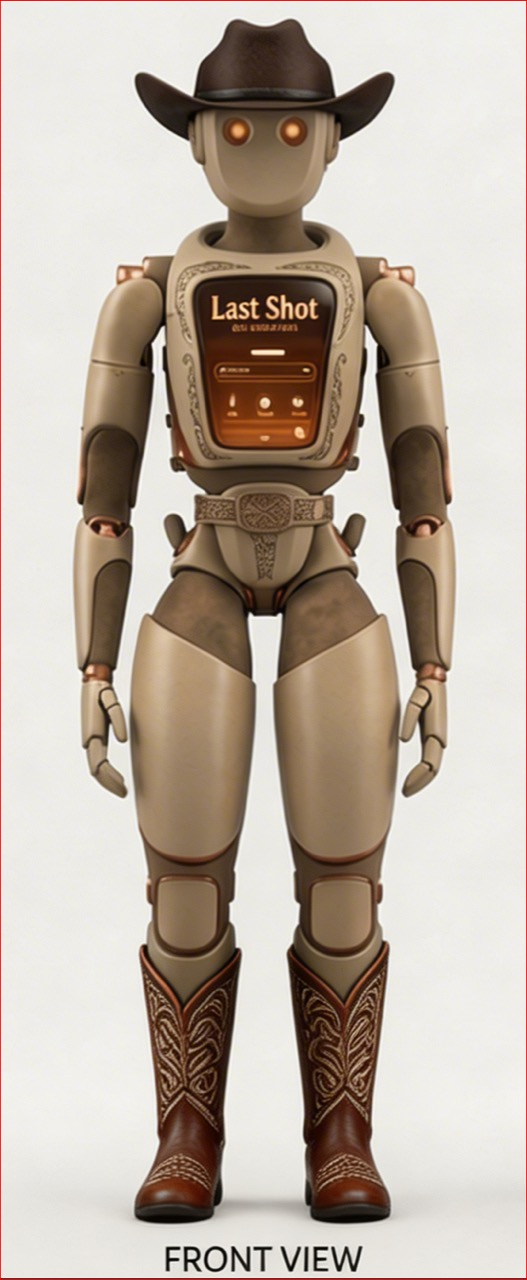
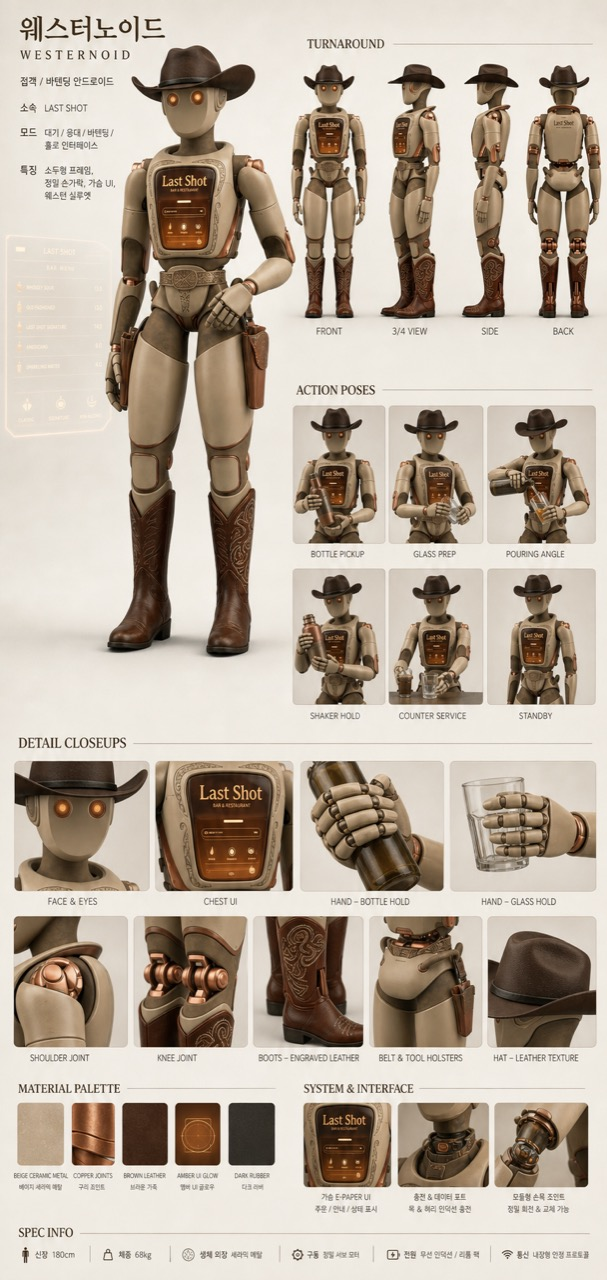
ncity: 웨스터노이드 시트 적용 + 무기·빌런 환도·외골격 제외
- 웨스터노이드 → 바텐딩 캐릭터시트(턴어라운드)로 교체 (사진→시트)
- obj-hwando·obj-exo-suit objectAssets/defaultObjRefs 제거(레퍼 부적합), objectAssets 18

diff --git a/index.html b/index.html
@@ -3257,7 +3257,6 @@ const PROJECTS = {
     defaultObjRefs: {
       "obj-justice6": "assets/ncity/obj/obj-justice6.jpg",
       "obj-stun-whip": "assets/ncity/obj/obj-stun-whip.jpg",
-      "obj-hwando": "assets/ncity/obj/obj-hwando.jpg",
       "obj-marshal": "assets/ncity/obj/obj-marshal.jpg",
       "obj-red-challenger": "assets/ncity/obj/obj-red-challenger.jpg",
       "obj-western-chopper": "assets/ncity/obj/obj-western-chopper.jpg",
@@ -3266,7 +3265,6 @@ const PROJECTS = {
       "obj-luxury-heli": "assets/ncity/obj/obj-luxury-heli.jpg",
       "obj-maglev": "assets/ncity/obj/obj-maglev.jpg",
       "obj-brain-rig": "assets/ncity/obj/obj-brain-rig.jpg",
-      "obj-exo-suit": "assets/ncity/obj/obj-exo-suit.jpg",
       "obj-arche": "assets/ncity/obj/obj-arche.jpg",
       "obj-mapae": "assets/ncity/obj/obj-mapae.jpg",
       "obj-shotgun": "assets/ncity/obj/obj-shotgun.jpg",
@@ -3300,7 +3298,7 @@ const PROJECTS = {
       "[SP-OT] 우유공장 잔업 카운터": "assets/ncity/space/SP-OT_우유공장_잔업_카운터.jpg",
       "[SP-VR-CORE] 9층 코드 방화벽": "assets/ncity/space/SP-VR-CORE_9층_코드_방화벽.jpg"
     },
-    objectAssets: [{"key": "obj-justice6", "name": "[무기·주연] 저스티스-6 리볼버", "desc": "독고탄 주무기. 단청 음각 비살상 전자기 리볼버. 손잡이에 오얏꽃 문장 음각. 청록 코일 발광. 테이저탄/레이저탄/음파탄 3종 — 화약도 연기도 없음"}, {"key": "obj-stun-whip", "name": "[무기·주연] 전기 채찍", "desc": "독고탄의 비살상 보조무기. 청록 발광 세그먼트 스턴 채찍 — 참교육 집행 도구"}, {"key": "obj-shotgun", "name": "[무기·주연] 커스텀 샷건", "desc": "독고탄 비살상 커스텀 샷건. 시안 코어·단청 각인·레드도트, EM 산탄"}, {"key": "obj-dagger", "name": "[무기·주연] 단검 2종", "desc": "독고탄 청색 발광날 단검 2종, 단청 가죽 시스 세트"}, {"key": "obj-taser-baton", "name": "[무기·주연] 테이저봉", "desc": "독고탄 청록 방전 코일 테이저봉, 단청 각인 — 근접 제압"}, {"key": "obj-dokgo-drone", "name": "[무기·주연] 정찰 드론 3기", "desc": "독고탄의 시안 호버 정찰·지원 드론 3기. 촬영·표적 마킹·엄호"}, {"key": "obj-yujin-weapon", "name": "[무기·주연] 서유진 무기 세트", "desc": "The Oracle 무기 세트 — 백금·로즈골드 단청 음각 리볼버·권총·커스텀 샷건, 마젠타 EM 발광. 서유진 전술모드 기동"}, {"key": "obj-hanmin-weapon", "name": "[무기·주연] 한민재 무기 세트", "desc": "금·흑 단청 음각 리볼버·권총·샷건 세트, 옐로우골드 EM 발광. 한민재 각성 디렉터 사이드암"}, {"key": "obj-hwando", "name": "[무기·빌런] 환도", "desc": "진홍(쿠레나이)의 한국식 검. 독고탄 음파탄을 받아치는 근접 자객 무기"}, {"key": "obj-exo-suit", "name": "[무기·빌런] 강화 외골격", "desc": "구태원이 노인의 몸 아래 숨긴 신이 되기 위한 개조 외골격. 음파탄을 흡수"}, {"key": "obj-marshal", "name": "[비히클·독고탄] 마샬", "desc": "변신하는 기계 말. 지상=말발굽 배기음 4족 주행 / 위기·탈출=바이크 변신"}, {"key": "obj-red-challenger", "name": "[비히클·서유진] 레드챌린저", "desc": "서유진의 메인 차량. 적동색 닷지 챌린저형 오픈탑 컨버터블, 단청·용 후드 각인, 접히는 호버 서스펜션 휠. 라스트샷 마담의 The Oracle 기동"}, {"key": "obj-western-chopper", "name": "[비히클·서유진] 웨스턴 초퍼", "desc": "서유진의 결전용 웨스턴 스타일 초퍼 바이크"}, {"key": "obj-mech-bison", "name": "[비히클·한민재] 들소카(기계 들소)", "desc": "한민재의 탈것. 매트블랙 중장갑 SUV/트럭(허머형)에 금장 그릴 들소 엠블럼·루프 라이트바·대형 오프로드 타이어. 강림 시퀀스 지상 화력 (4족 로봇 아님)"}, {"key": "obj-gold-drone", "name": "[비히클·한민재] 황금 촬영 드론", "desc": "한민재의 금색 드론. 평소 4K 촬영용, EP12에서 23기 편대 무장 전투 드론으로 전환"}, {"key": "obj-luxury-heli", "name": "[비히클·한민재] 초럭셔리 헬기", "desc": "한민재 강림 시퀀스의 육해공 무장 중 공중 화력. 격납고 보관"}, {"key": "obj-maglev", "name": "[비히클·공용] 매그레브 화물열차", "desc": "자기부상 화물열차. 비닐하우스 들판·황무지를 질주하며 마샬·빌런 마운트가 추격하는 액션 무대"}, {"key": "obj-arche", "name": "[소품] ARCHE (ASI)", "desc": "N시를 0.001초 단위로 최적화하는 초지능 ASI. 약자 피해를 글리치로 삭제. 앰버 코어·관리드론·데이터 레이아웃으로 가시화"}, {"key": "obj-mapae", "name": "[소품] 마패형 배지", "desc": "서부 보안관 배지를 한국식 마패로 치환한 독고탄의 자경 상징. 작업실 낙서·홀스터에 각인"}, {"key": "obj-brain-rig", "name": "[소품] 적출·공각제조 베드", "desc": "4T 적출단/성전 지하의 뇌 적출·공각 제조 베드라인. 목덜미 신경 포트·무균 캡슐 (EP2·11~12)"}],
+    objectAssets: [{"key": "obj-justice6", "name": "[무기·주연] 저스티스-6 리볼버", "desc": "독고탄 주무기. 단청 음각 비살상 전자기 리볼버. 손잡이에 오얏꽃 문장 음각. 청록 코일 발광. 테이저탄/레이저탄/음파탄 3종 — 화약도 연기도 없음"}, {"key": "obj-stun-whip", "name": "[무기·주연] 전기 채찍", "desc": "독고탄의 비살상 보조무기. 청록 발광 세그먼트 스턴 채찍 — 참교육 집행 도구"}, {"key": "obj-shotgun", "name": "[무기·주연] 커스텀 샷건", "desc": "독고탄 비살상 커스텀 샷건. 시안 코어·단청 각인·레드도트, EM 산탄"}, {"key": "obj-dagger", "name": "[무기·주연] 단검 2종", "desc": "독고탄 청색 발광날 단검 2종, 단청 가죽 시스 세트"}, {"key": "obj-taser-baton", "name": "[무기·주연] 테이저봉", "desc": "독고탄 청록 방전 코일 테이저봉, 단청 각인 — 근접 제압"}, {"key": "obj-dokgo-drone", "name": "[무기·주연] 정찰 드론 3기", "desc": "독고탄의 시안 호버 정찰·지원 드론 3기. 촬영·표적 마킹·엄호"}, {"key": "obj-yujin-weapon", "name": "[무기·주연] 서유진 무기 세트", "desc": "The Oracle 무기 세트 — 백금·로즈골드 단청 음각 리볼버·권총·커스텀 샷건, 마젠타 EM 발광. 서유진 전술모드 기동"}, {"key": "obj-hanmin-weapon", "name": "[무기·주연] 한민재 무기 세트", "desc": "금·흑 단청 음각 리볼버·권총·샷건 세트, 옐로우골드 EM 발광. 한민재 각성 디렉터 사이드암"}, {"key": "obj-marshal", "name": "[비히클·독고탄] 마샬", "desc": "변신하는 기계 말. 지상=말발굽 배기음 4족 주행 / 위기·탈출=바이크 변신"}, {"key": "obj-red-challenger", "name": "[비히클·서유진] 레드챌린저", "desc": "서유진의 메인 차량. 적동색 닷지 챌린저형 오픈탑 컨버터블, 단청·용 후드 각인, 접히는 호버 서스펜션 휠. 라스트샷 마담의 The Oracle 기동"}, {"key": "obj-western-chopper", "name": "[비히클·서유진] 웨스턴 초퍼", "desc": "서유진의 결전용 웨스턴 스타일 초퍼 바이크"}, {"key": "obj-mech-bison", "name": "[비히클·한민재] 들소카(기계 들소)", "desc": "한민재의 탈것. 매트블랙 중장갑 SUV/트럭(허머형)에 금장 그릴 들소 엠블럼·루프 라이트바·대형 오프로드 타이어. 강림 시퀀스 지상 화력 (4족 로봇 아님)"}, {"key": "obj-gold-drone", "name": "[비히클·한민재] 황금 촬영 드론", "desc": "한민재의 금색 드론. 평소 4K 촬영용, EP12에서 23기 편대 무장 전투 드론으로 전환"}, {"key": "obj-luxury-heli", "name": "[비히클·한민재] 초럭셔리 헬기", "desc": "한민재 강림 시퀀스의 육해공 무장 중 공중 화력. 격납고 보관"}, {"key": "obj-maglev", "name": "[비히클·공용] 매그레브 화물열차", "desc": "자기부상 화물열차. 비닐하우스 들판·황무지를 질주하며 마샬·빌런 마운트가 추격하는 액션 무대"}, {"key": "obj-arche", "name": "[소품] ARCHE (ASI)", "desc": "N시를 0.001초 단위로 최적화하는 초지능 ASI. 약자 피해를 글리치로 삭제. 앰버 코어·관리드론·데이터 레이아웃으로 가시화"}, {"key": "obj-mapae", "name": "[소품] 마패형 배지", "desc": "서부 보안관 배지를 한국식 마패로 치환한 독고탄의 자경 상징. 작업실 낙서·홀스터에 각인"}, {"key": "obj-brain-rig", "name": "[소품] 적출·공각제조 베드", "desc": "4T 적출단/성전 지하의 뇌 적출·공각 제조 베드라인. 목덜미 신경 포트·무균 캡슐 (EP2·11~12)"}],
     characterPresets: {
       '주연 · 독고탄 (낮)': {eth:['Korean'],gender:'male',age:'26 young adult',height:'tall (188cm)',build:'slim trained lean muscle',head:'8-head proportion',face:'soft handsome features, straight nose bridge, gentle jaw (final cast)',eyes:'light double-lid almond eyes, calm',iris:'dark brown',skin:'clean with natural pores',hcol:'black',hlen:'medium wavy',hstyle:'messy medium-length wavy, front parted (day: under glasses)',extra:'black horn-rimmed glasses, charcoal dark-navy functional work jacket (no logo, ID/NFC tag), grey textured inner shirt, straight work pants, minimal work boots, thin work tablet — NeoCausa plant line-34 supervisor. 9,200원/hr'},
       '주연 · 독고탄 (밤)': {eth:['Korean'],gender:'male',age:'26 young adult',height:'tall (188cm)',build:'slim trained lean muscle, 72kg',head:'8-head proportion',face:'same face no glasses, slightly disheveled',eyes:'sharp alert smirk playful',iris:'dark brown',skin:'slightly tanned micro dust scratches (not exaggerated)',hcol:'black',hlen:'medium',hstyle:'few strands loose',extra:'Glitch K\'owboy full armor: dark indigo Western denim jacket (Western yoke cut, structured shoulder), brown leather harness vest (dual pouches, worn), metal shoulder armor with cyan glowing edge lines, left forearm guard only (cyan UI pattern lit), waist energy belt (cyan core glow), thigh armor + knee guards, cyan glowing Neo-Cowboy lower-face mask, dark cowboy hat. Justice-6 revolver holstered with blue electric spark'},
